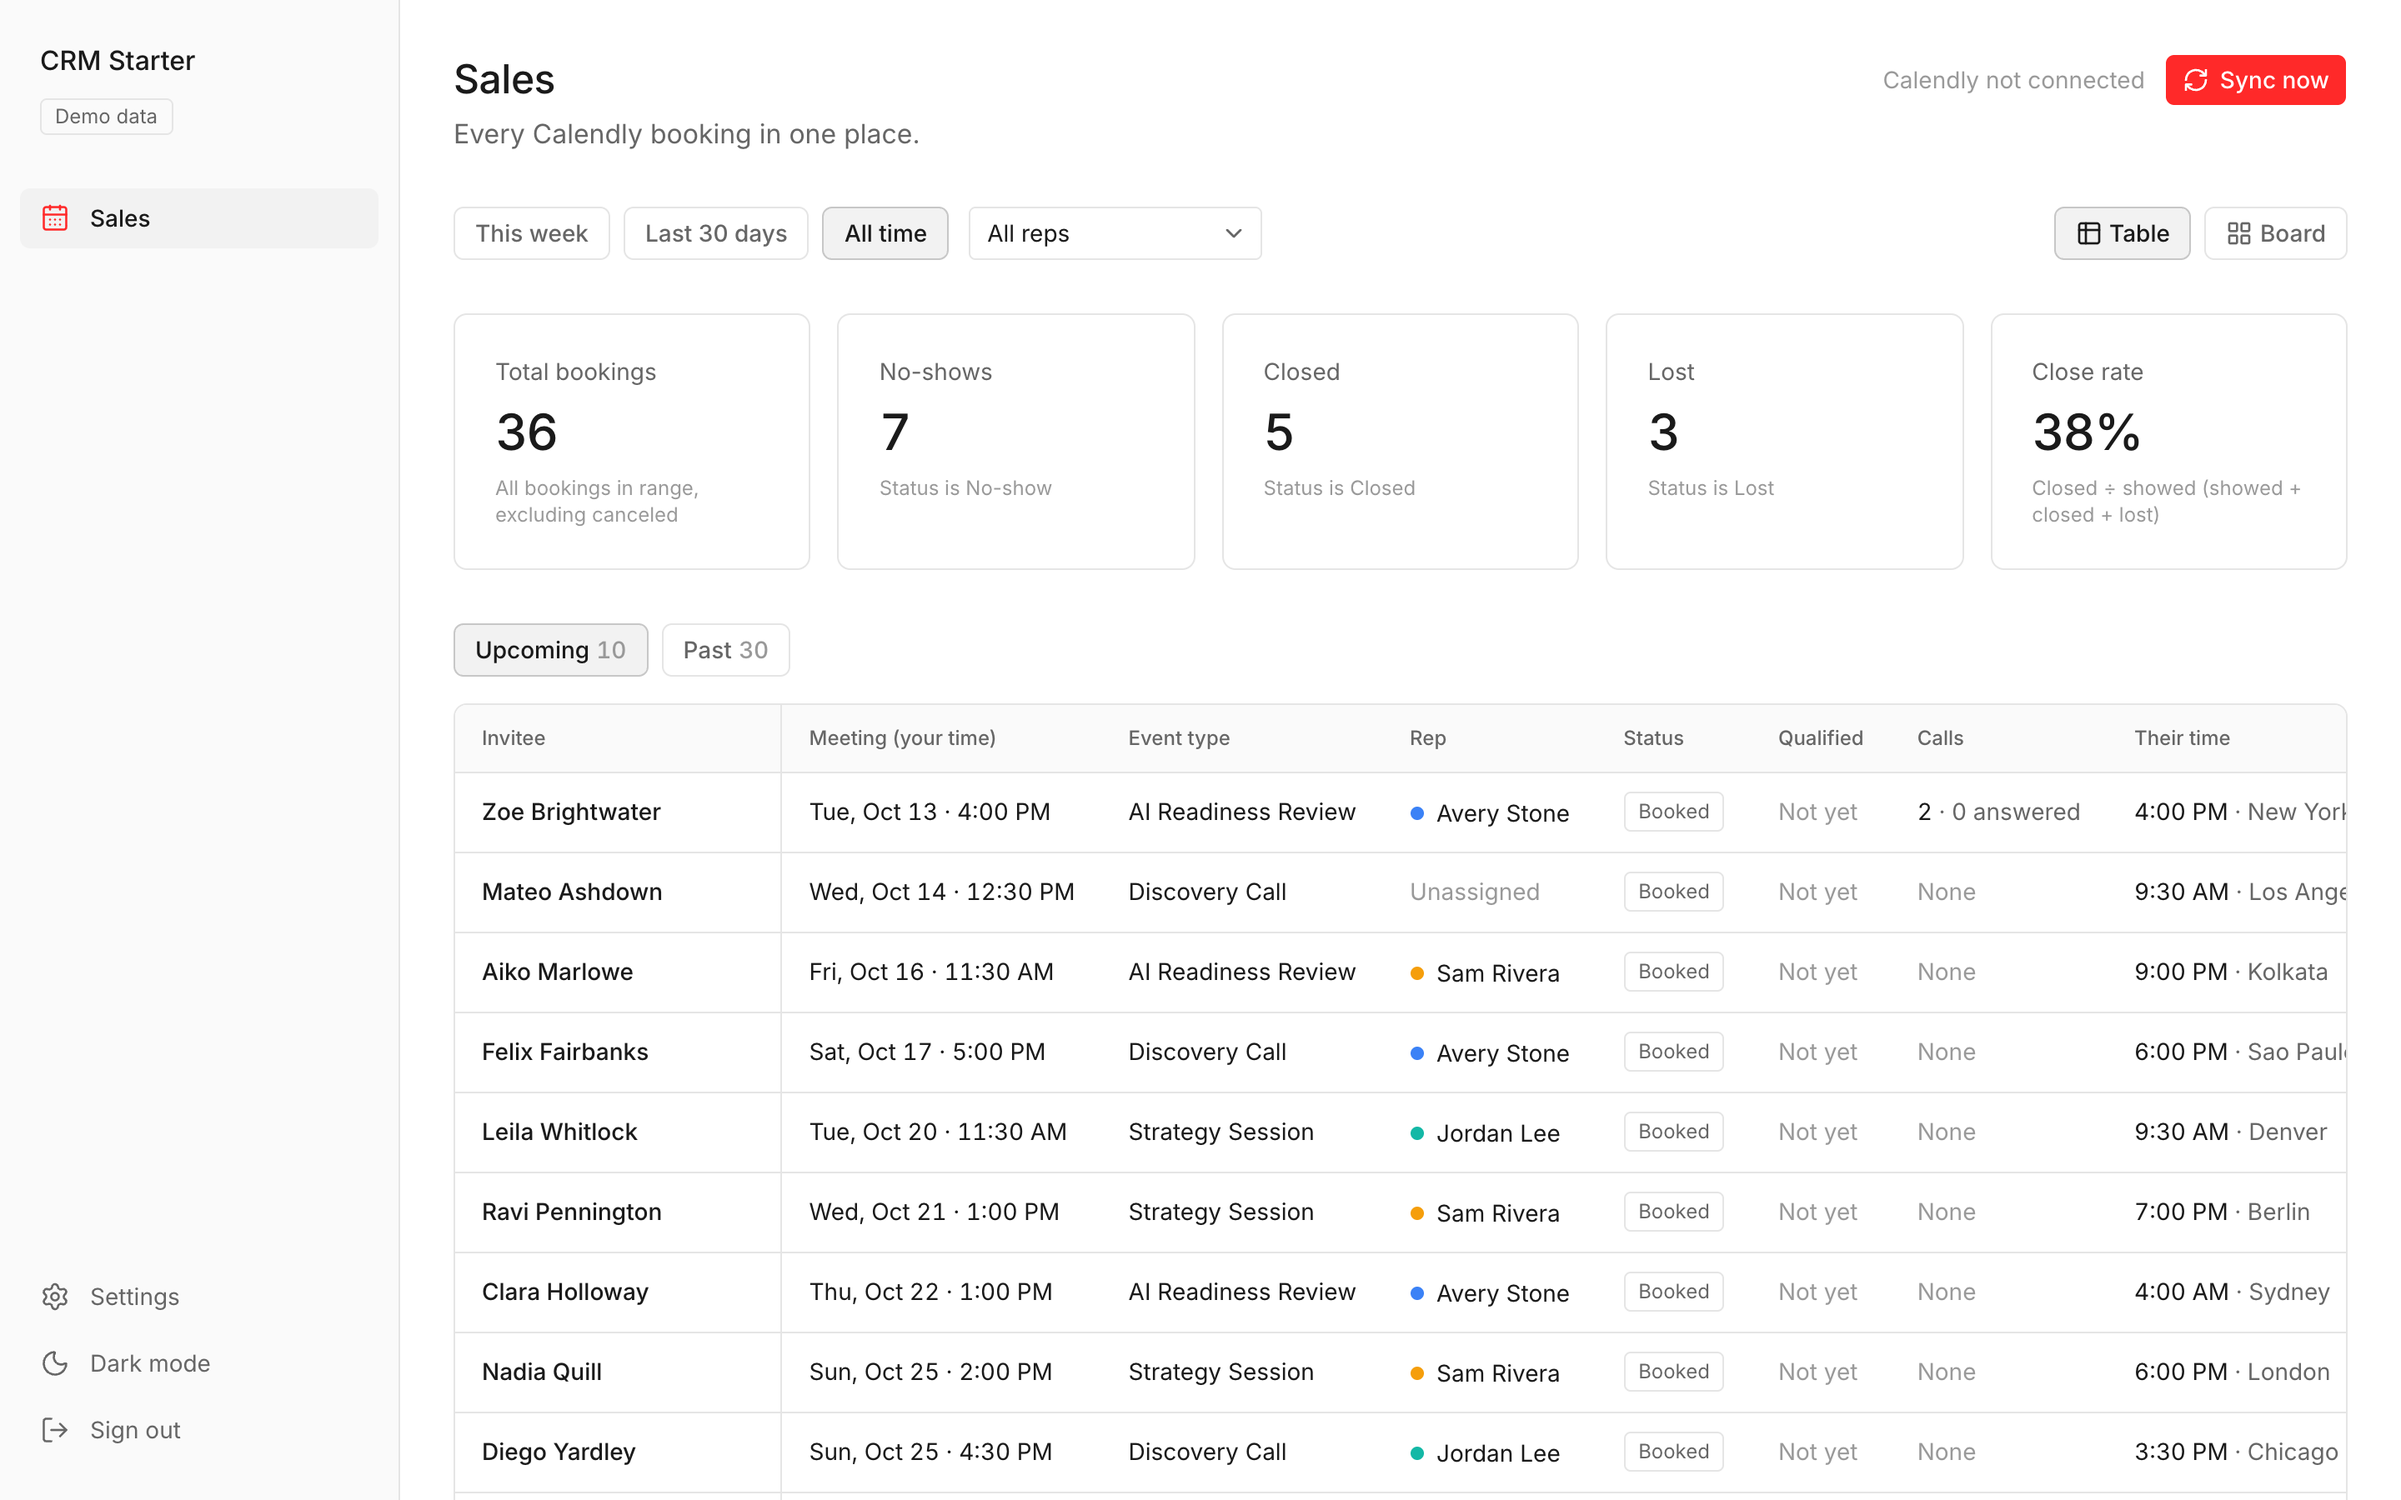
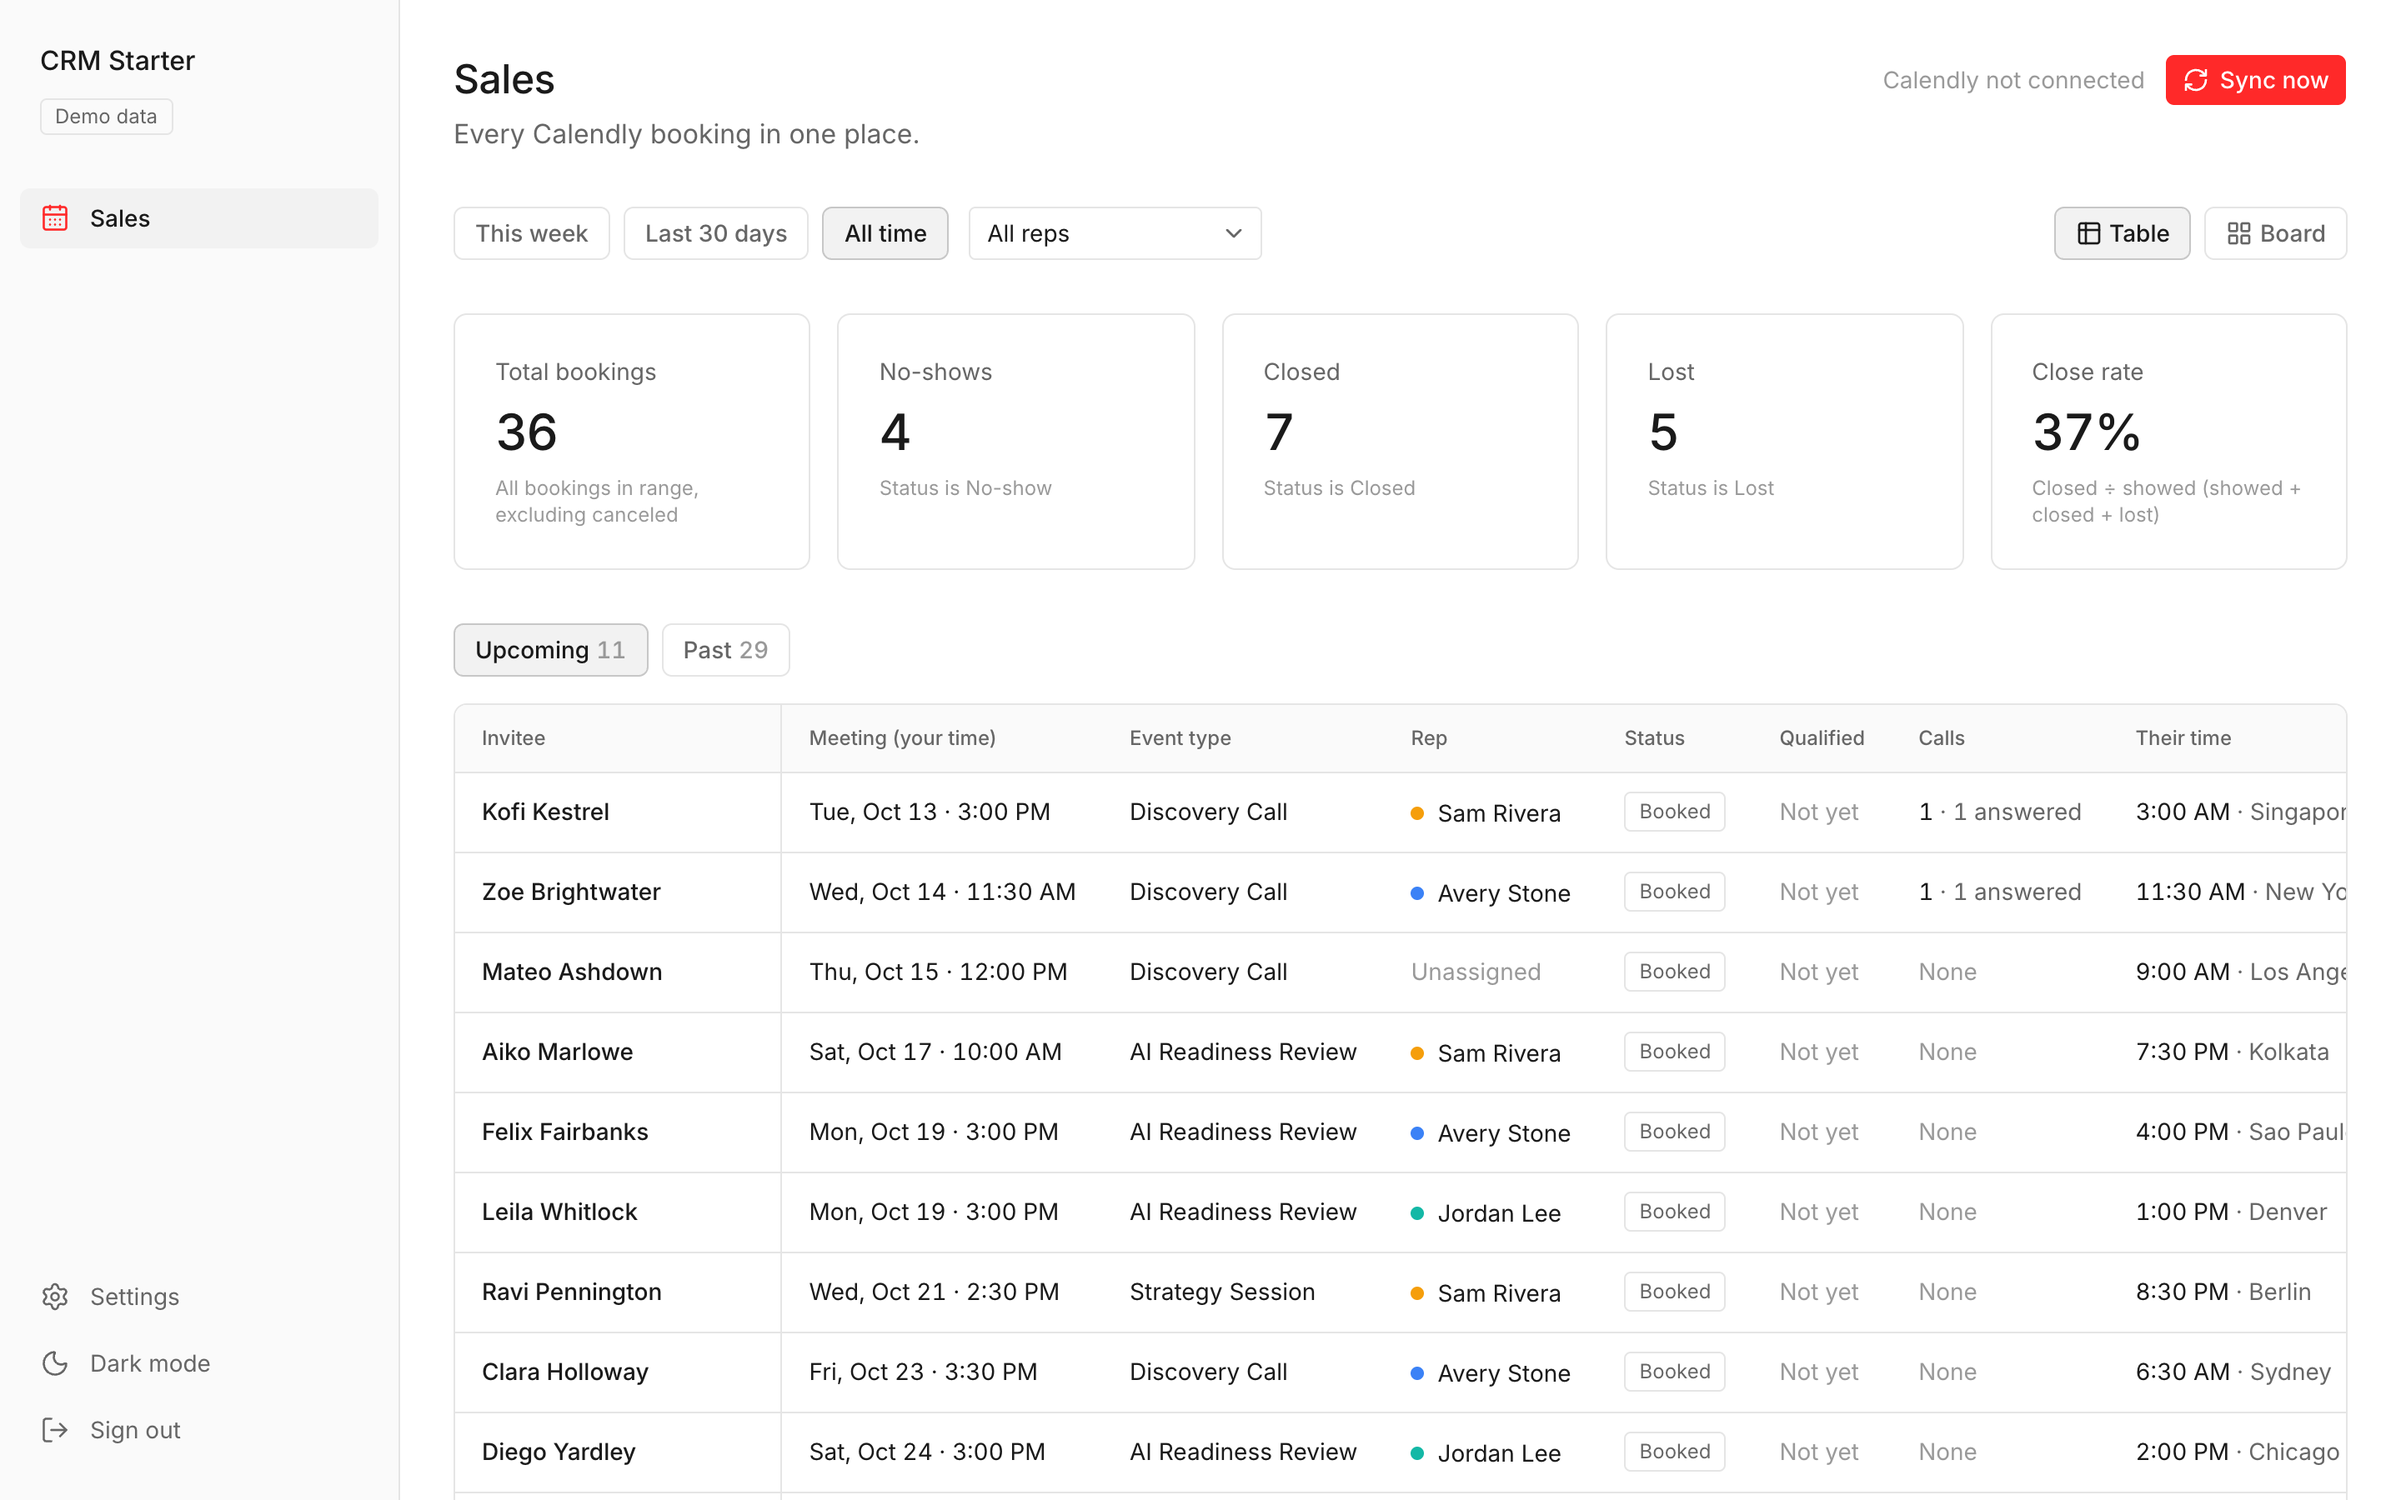
Stage 6: final check fixes
Repo and history scan against ../monk-crm (names, email domains, hosts, IDs,
integration names, secret patterns, verbatim code and prose). Fixed the only
non-boilerplate matches:
- Demo seed random generator rewritten (Park-Miller) instead of the same
  snippet monk-crm uses; demo data and README screenshot regenerated (demo mode)
- Stuck-sync constant renamed
- Time zone offset helper rewritten, with new tests (London summer/winter,
  New York, Kolkata)

diff --git a/src/lib/time.ts b/src/lib/time.ts
@@ -1,20 +1,25 @@
 // Time zone helpers built on the browser/Node Intl API (no date library needed).
 
 // How far a time zone is ahead of UTC at a given moment, in milliseconds.
+// Reads the wall-clock parts in that zone, rebuilds them as if they were UTC, and
+// compares with the real moment (rounded to the second, since we drop milliseconds).
 export function timeZoneOffsetMs(date: Date, timeZone: string): number {
-  const parts = new Intl.DateTimeFormat("en-US", {
+  const wall: Record<string, number> = {};
+  for (const { type, value } of new Intl.DateTimeFormat("en-US", {
     timeZone,
     hourCycle: "h23",
     year: "numeric",
-    month: "2-digit",
-    day: "2-digit",
-    hour: "2-digit",
-    minute: "2-digit",
-    second: "2-digit",
-  }).formatToParts(date);
-  const get = (type: string) => Number(parts.find((p) => p.type === type)?.value);
-  const asUtc = Date.UTC(get("year"), get("month") - 1, get("day"), get("hour"), get("minute"), get("second"));
-  return asUtc - Math.floor(date.getTime() / 1000) * 1000;
+    month: "numeric",
+    day: "numeric",
+    hour: "numeric",
+    minute: "numeric",
+    second: "numeric",
+  }).formatToParts(date)) {
+    if (type !== "literal") wall[type] = Number(value);
+  }
+  const wallAsUtc = Date.UTC(wall.year, wall.month - 1, wall.day, wall.hour, wall.minute, wall.second);
+  const actual = date.getTime() - date.getUTCMilliseconds();
+  return wallAsUtc - actual;
 }
 
 // The UTC moment for a wall-clock time in a time zone, e.g. 9:30 in Europe/London.

diff --git a/tests/time.test.ts b/tests/time.test.ts
@@ -1,0 +1,23 @@
+import { describe, expect, it } from "vitest";
+import { hourInTimeZone, timeZoneOffsetMs, zonedTimeToUtc } from "@/lib/time";
+
+const HOUR = 3_600_000;
+
+describe("time zone helpers", () => {
+  it("knows the offset in summer and winter time", () => {
+    expect(timeZoneOffsetMs(new Date("2026-07-01T12:00:00Z"), "Europe/London")).toBe(1 * HOUR);
+    expect(timeZoneOffsetMs(new Date("2026-12-01T12:00:00Z"), "Europe/London")).toBe(0);
+    expect(timeZoneOffsetMs(new Date("2026-07-01T12:00:00Z"), "America/New_York")).toBe(-4 * HOUR);
+    expect(timeZoneOffsetMs(new Date("2026-07-01T12:00:00Z"), "Asia/Kolkata")).toBe(5.5 * HOUR);
+  });
+
+  it("turns a wall-clock time in a zone into the right moment", () => {
+    expect(zonedTimeToUtc(2026, 6, 1, 9, 30, "Europe/London").toISOString()).toBe("2026-07-01T08:30:00.000Z");
+    expect(zonedTimeToUtc(2026, 11, 1, 9, 30, "America/New_York").toISOString()).toBe("2026-12-01T14:30:00.000Z");
+  });
+
+  it("reads the hour in a zone", () => {
+    expect(hourInTimeZone(new Date("2026-07-01T23:30:00Z"), "Asia/Singapore")).toBe(7);
+    expect(hourInTimeZone(new Date("2026-07-01T00:30:00Z"), "UTC")).toBe(0);
+  });
+});

diff --git a/src/modules/sales/integrations/calendly/sync.ts b/src/modules/sales/integrations/calendly/sync.ts
@@ -31,7 +31,7 @@ const WINDOW_DAYS = 60;
 const DAY = 24 * 60 * 60 * 1000;
 // A run still marked "running" after this long died part-way (e.g. a redeploy), so it
 // no longer blocks new runs.
-const STALE_RUN_MS = 10 * 60 * 1000;
+const STUCK_RUN_AFTER_MS = 10 * 60 * 1000;
 // How many events' invitees to fetch from Calendly at once. Kept low to stay well inside rate limits.
 const CONCURRENCY = 4;
 
@@ -55,7 +55,7 @@ export async function runSync({ source, db: givenDb, fetchImpl, now = new Date()
   const db = givenDb ?? getDb();
 
   const running = await db.syncRun.findFirst({
-    where: { status: "running", source: { not: "webhook" }, startedAt: { gt: new Date(now.getTime() - STALE_RUN_MS) } },
+    where: { status: "running", source: { not: "webhook" }, startedAt: { gt: new Date(now.getTime() - STUCK_RUN_AFTER_MS) } },
   });
   if (running) return { status: "skipped", reason: "A sync is already running. Try again in a minute." };
 

diff --git a/src/modules/sales/demo/seed.ts b/src/modules/sales/demo/seed.ts
@@ -15,15 +15,14 @@ import { zonedTimeToUtc } from "@/lib/time";
 
 const DAY = 24 * 60 * 60 * 1000;
 
-// Small seeded random generator so the demo looks the same every time it's created.
+// Small seeded random generator (Park-Miller "minimal standard"), so the demo looks the
+// same every time it's created. Returns numbers from 0 up to (not including) 1.
 function random(seed: number) {
-  let a = seed;
+  const MOD = 2_147_483_647;
+  let state = (seed % MOD) || 1;
   return () => {
-    a |= 0;
-    a = (a + 0x6d2b79f5) | 0;
-    let t = Math.imul(a ^ (a >>> 15), 1 | a);
-    t = (t + Math.imul(t ^ (t >>> 7), 61 | t)) ^ t;
-    return ((t ^ (t >>> 14)) >>> 0) / 4294967296;
+    state = (state * 48_271) % MOD;
+    return (state - 1) / (MOD - 1);
   };
 }
 

diff --git a/CLAUDE.md b/CLAUDE.md
@@ -181,4 +181,4 @@ To add a module, follow `docs/ADDING-A-MODULE.md`.
 - [x] Stage 4: Calendly (polling sync, Sync now, /api/sync, optional webhooks, demo fallback, connection banners)
 - [x] Review fixes: No-show reset on reschedule, vitest suite (`npm test`)
 - [x] Stage 5: Docs and polish (README, docs, AI-GUIDE pass, empty, loading and error states, dark mode, collapsible sidebar on small screens)
-- [ ] Stage 6: Final check (scan repo and history for copied code, real names, URLs, secrets)
+- [x] Stage 6: Final check (scan repo and history for copied code, real names, URLs, secrets)
